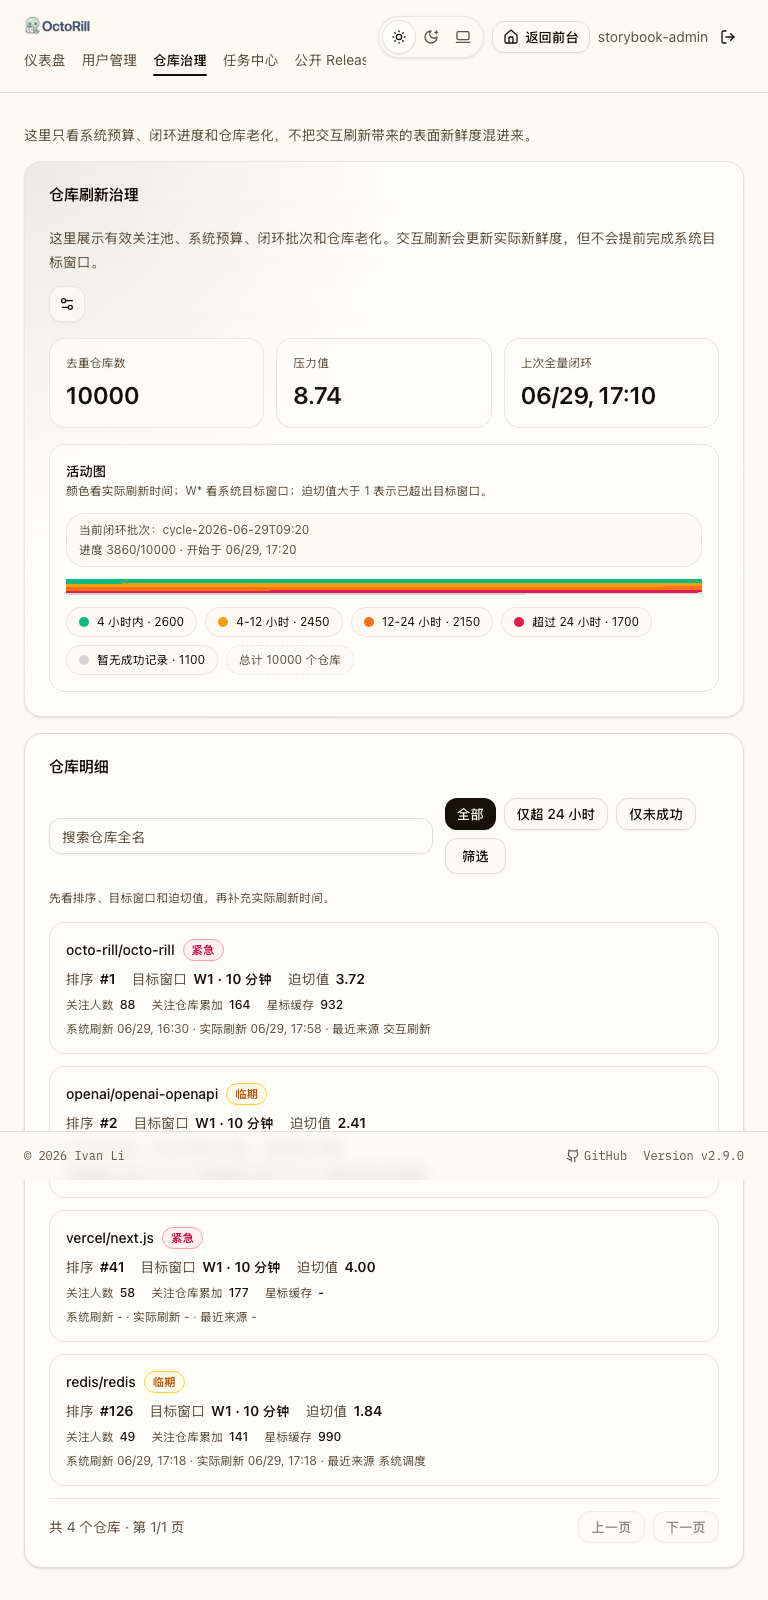
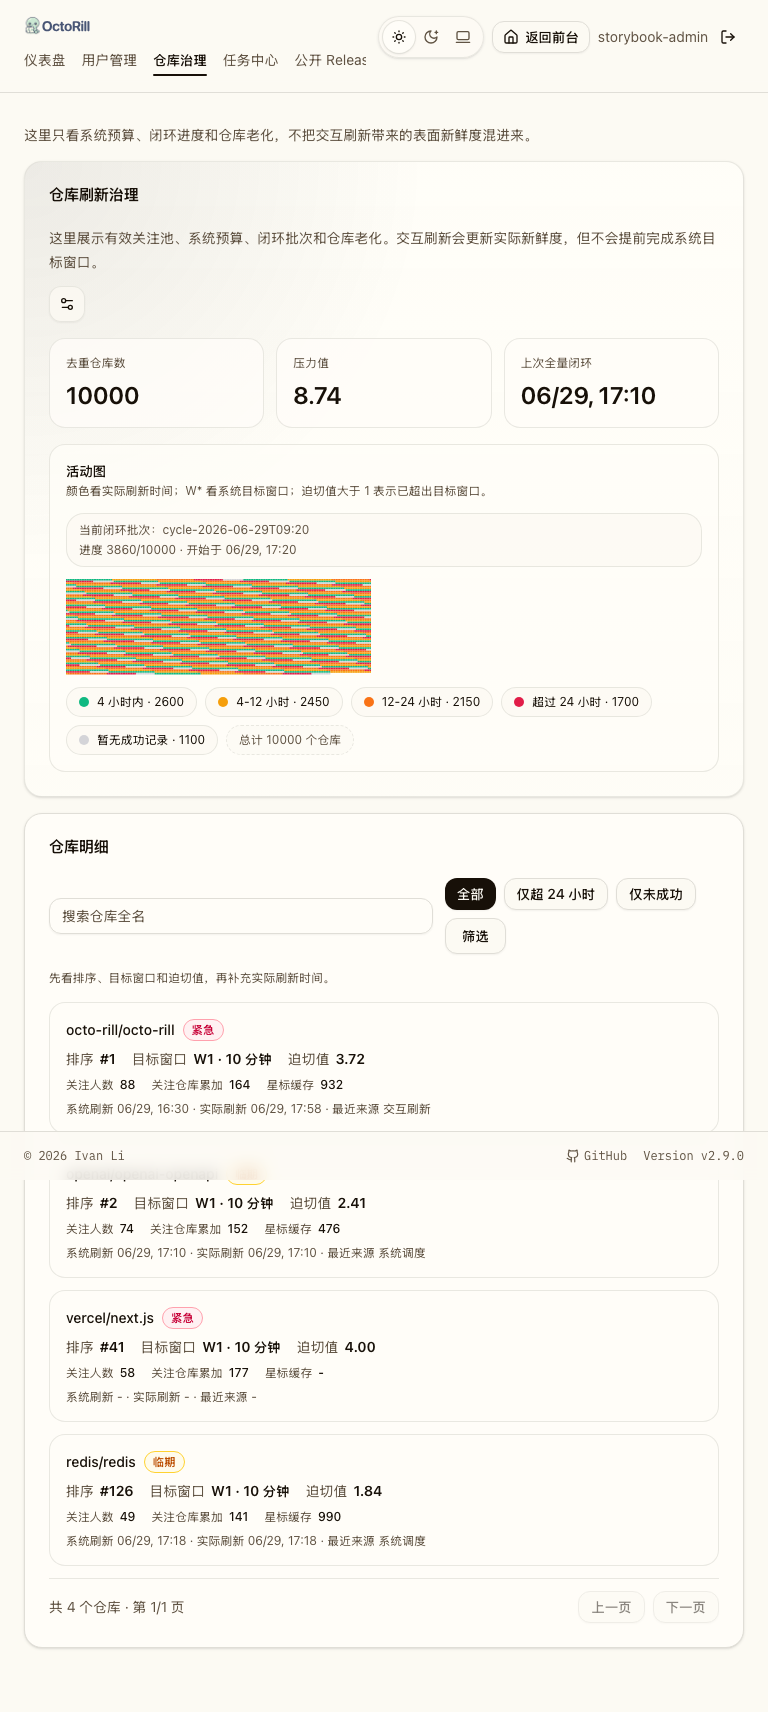
fix(admin): tighten repo governance evidence grid

diff --git a/web/src/admin/AdminRepoGovernance.tsx b/web/src/admin/AdminRepoGovernance.tsx
@@ -35,7 +35,11 @@ const GRID_ULTRA_DENSE_GAP = 0;
 const GRID_IDEAL_CELL = 8;
 const GRID_MIN_CELL = 1;
 const GRID_DENSE_CELL = 3;
-const GRID_ULTRA_DENSE_CELL = 1;
+const GRID_ULTRA_DENSE_CELL = 3;
+const GRID_COMPACT_BLOCK_THRESHOLD = 8000;
+const GRID_COMPACT_TARGET_ASPECT_RATIO = 3.2;
+const GRID_COMPACT_MIN_WIDTH = 300;
+const GRID_COMPACT_MAX_WIDTH = 420;
 const GRID_HEIGHT_TARGET_RATIO = 0.52;
 const GRID_ULTRA_DENSE_HEIGHT_TARGET_RATIO = 0.28;
 const GRID_LEGEND_SKELETON_IDS = [
@@ -216,45 +220,71 @@ function GovernanceGrid(props: {
 
 		const dpr = window.devicePixelRatio || 1;
 		const totalCells = Math.max(1, cells.length);
+		const isCompactBlock = totalCells >= GRID_COMPACT_BLOCK_THRESHOLD;
 		const densityRatio = Math.min(1, totalCells / 4000);
-		const isUltraDense = totalCells >= 8000;
+		const isUltraDense = !isCompactBlock && totalCells >= 8000;
 		const isDense = !isUltraDense && densityRatio > 0.35;
-		const gap = isUltraDense
-			? GRID_ULTRA_DENSE_GAP
-			: isDense
-				? GRID_DENSE_GAP
-				: GRID_BASE_GAP;
-		const compactCell = isUltraDense
-			? GRID_ULTRA_DENSE_CELL
-			: isDense
-				? GRID_DENSE_CELL
-				: GRID_DENSE_CELL;
-		const targetHeightRatio = isUltraDense
-			? GRID_ULTRA_DENSE_HEIGHT_TARGET_RATIO
-			: GRID_HEIGHT_TARGET_RATIO;
-		const minimumColumns = Math.max(
-			1,
-			Math.floor((hostWidth + gap) / (compactCell + gap)),
-		);
-		const targetColumnsFromArea = Math.ceil(
-			Math.sqrt(
-				totalCells * (hostWidth / Math.max(1, hostWidth * targetHeightRatio)),
-			),
-		);
-		const preferredColumns = Math.max(
-			1,
-			Math.floor((hostWidth + gap) / (GRID_IDEAL_CELL + gap)),
-		);
-		const columns = Math.max(
-			Math.min(totalCells, minimumColumns),
-			Math.min(totalCells, Math.max(preferredColumns, targetColumnsFromArea)),
-		);
-		const rawCell =
-			columns > 1 ? (hostWidth - (columns - 1) * gap) / columns : hostWidth;
-		const cell = Math.max(GRID_MIN_CELL, rawCell);
-		const rows = Math.max(1, Math.ceil(cells.length / columns));
-		const width = hostWidth;
-		const height = rows * cell + (rows - 1) * gap;
+		let gap: number;
+		let columns: number;
+		let cell: number;
+		let width: number;
+		let height: number;
+
+		if (isCompactBlock) {
+			gap = GRID_ULTRA_DENSE_GAP;
+			columns = Math.max(
+				1,
+				Math.ceil(Math.sqrt(totalCells * GRID_COMPACT_TARGET_ASPECT_RATIO)),
+			);
+			const targetWidth = Math.min(
+				hostWidth,
+				Math.max(
+					GRID_COMPACT_MIN_WIDTH,
+					Math.min(GRID_COMPACT_MAX_WIDTH, hostWidth * 0.48),
+				),
+			);
+			cell = Math.max(GRID_MIN_CELL, targetWidth / columns);
+			width = columns * cell;
+			const rows = Math.max(1, Math.ceil(cells.length / columns));
+			height = rows * cell;
+		} else {
+			gap = isUltraDense
+				? GRID_ULTRA_DENSE_GAP
+				: isDense
+					? GRID_DENSE_GAP
+					: GRID_BASE_GAP;
+			const compactCell = isUltraDense
+				? GRID_ULTRA_DENSE_CELL
+				: isDense
+					? GRID_DENSE_CELL
+					: GRID_DENSE_CELL;
+			const targetHeightRatio = isUltraDense
+				? GRID_ULTRA_DENSE_HEIGHT_TARGET_RATIO
+				: GRID_HEIGHT_TARGET_RATIO;
+			const minimumColumns = Math.max(
+				1,
+				Math.floor((hostWidth + gap) / (compactCell + gap)),
+			);
+			const targetColumnsFromArea = Math.ceil(
+				Math.sqrt(
+					totalCells * (hostWidth / Math.max(1, hostWidth * targetHeightRatio)),
+				),
+			);
+			const preferredColumns = Math.max(
+				1,
+				Math.floor((hostWidth + gap) / (GRID_IDEAL_CELL + gap)),
+			);
+			columns = Math.max(
+				Math.min(totalCells, minimumColumns),
+				Math.min(totalCells, Math.max(preferredColumns, targetColumnsFromArea)),
+			);
+			const rawCell =
+				columns > 1 ? (hostWidth - (columns - 1) * gap) / columns : hostWidth;
+			cell = Math.max(GRID_MIN_CELL, rawCell);
+			const rows = Math.max(1, Math.ceil(cells.length / columns));
+			width = hostWidth;
+			height = rows * cell + (rows - 1) * gap;
+		}
 		canvas.width = Math.round(width * dpr);
 		canvas.height = Math.round(height * dpr);
 		canvas.style.width = `${width}px`;
@@ -284,7 +314,7 @@ function GovernanceGrid(props: {
 		<div ref={hostRef} className="w-full">
 			<canvas
 				ref={canvasRef}
-				className="block w-full"
+				className="block"
 				tabIndex={-1}
 				title="颜色按实际最后成功刷新时间分桶；顺序按治理优先级。"
 			/>

diff --git a/web/src/stories/AdminRepos.stories.tsx b/web/src/stories/AdminRepos.stories.tsx
@@ -27,6 +27,16 @@ const STORY_GRID_TOTAL = Object.values(STORY_GRID_BUCKET_COUNTS).reduce(
 	(sum, count) => sum + count,
 	0,
 );
+const STORY_GRID_BUCKET_ORDER = [
+	"fresh",
+	"warm",
+	"aging",
+	"stale",
+	"missing",
+] as const;
+const STORY_GRID_BUCKETS = STORY_GRID_BUCKET_ORDER.flatMap((bucket) =>
+	Array.from({ length: STORY_GRID_BUCKET_COUNTS[bucket] }, () => bucket),
+);
 
 const STORY_VERSION_STATE: VersionMonitorValue = {
 	loadedVersion: "v2.9.0",
@@ -93,23 +103,7 @@ const governanceOverviewSeed: AdminRepoGovernanceOverviewResponse = {
 		],
 	},
 	grid_cells: Array.from({ length: STORY_GRID_TOTAL }, (_, index) => {
-		const ageBucket =
-			index < STORY_GRID_BUCKET_COUNTS.fresh
-				? "fresh"
-				: index < STORY_GRID_BUCKET_COUNTS.fresh + STORY_GRID_BUCKET_COUNTS.warm
-					? "warm"
-					: index <
-							STORY_GRID_BUCKET_COUNTS.fresh +
-								STORY_GRID_BUCKET_COUNTS.warm +
-								STORY_GRID_BUCKET_COUNTS.aging
-						? "aging"
-						: index <
-								STORY_GRID_BUCKET_COUNTS.fresh +
-									STORY_GRID_BUCKET_COUNTS.warm +
-									STORY_GRID_BUCKET_COUNTS.aging +
-									STORY_GRID_BUCKET_COUNTS.stale
-							? "stale"
-							: "missing";
+		const ageBucket = STORY_GRID_BUCKETS[(index * 97) % STORY_GRID_TOTAL];
 		return {
 			repo_id: index + 1,
 			age_bucket: ageBucket,

diff --git a/web/e2e/admin-jobs.spec.ts b/web/e2e/admin-jobs.spec.ts
@@ -1934,15 +1934,15 @@ test("admin can manage jobs center", async ({ page }) => {
 		page.getByText("octo/private-repo · attempt 1 · terminal"),
 	).toBeVisible();
 	await expect(
-		page.getByRole("button", { name: "配置订阅同步 worker 数量" }),
+		page.getByRole("button", { name: "配置订阅同步设置" }),
 	).toBeVisible();
-	await page.getByRole("button", { name: "配置订阅同步 worker 数量" }).click();
+	await page.getByRole("button", { name: "配置订阅同步设置" }).click();
 	const syncSettingsDialog = page.getByRole("dialog", {
 		name: "订阅同步设置",
 	});
 	await expect(syncSettingsDialog).toBeVisible();
 	await expect(
-		syncSettingsDialog.getByRole("slider", { name: "Release worker 数量" }),
+		syncSettingsDialog.getByRole("slider", { name: "Release 抓取并发" }),
 	).toBeVisible();
 	await expect(
 		syncSettingsDialog.getByText("task-subscriptions-skipped"),